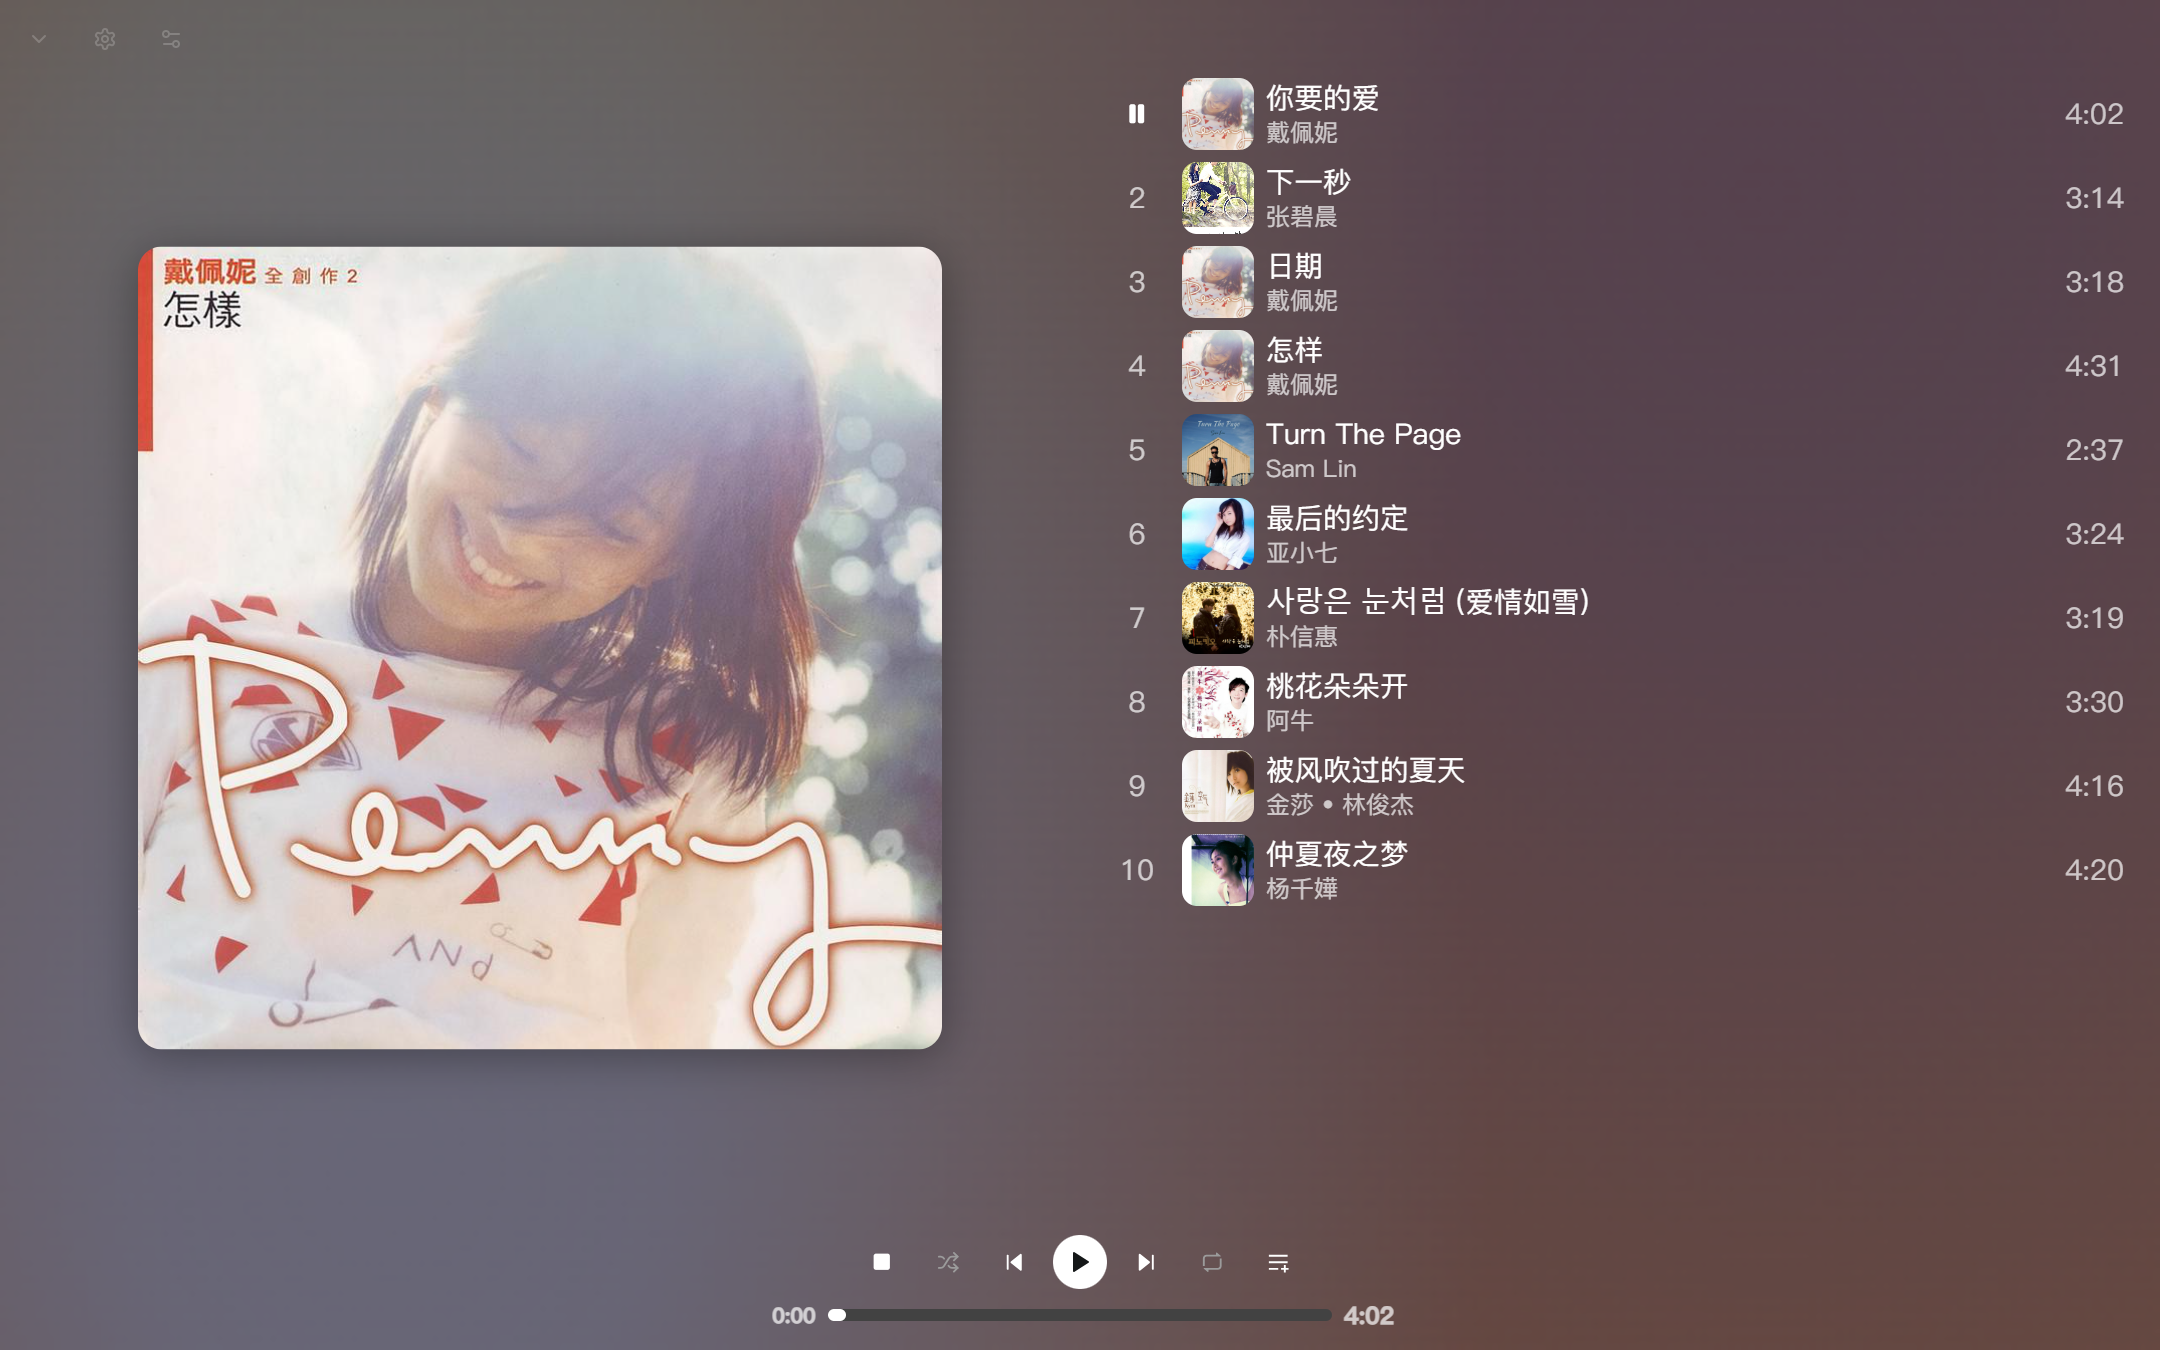
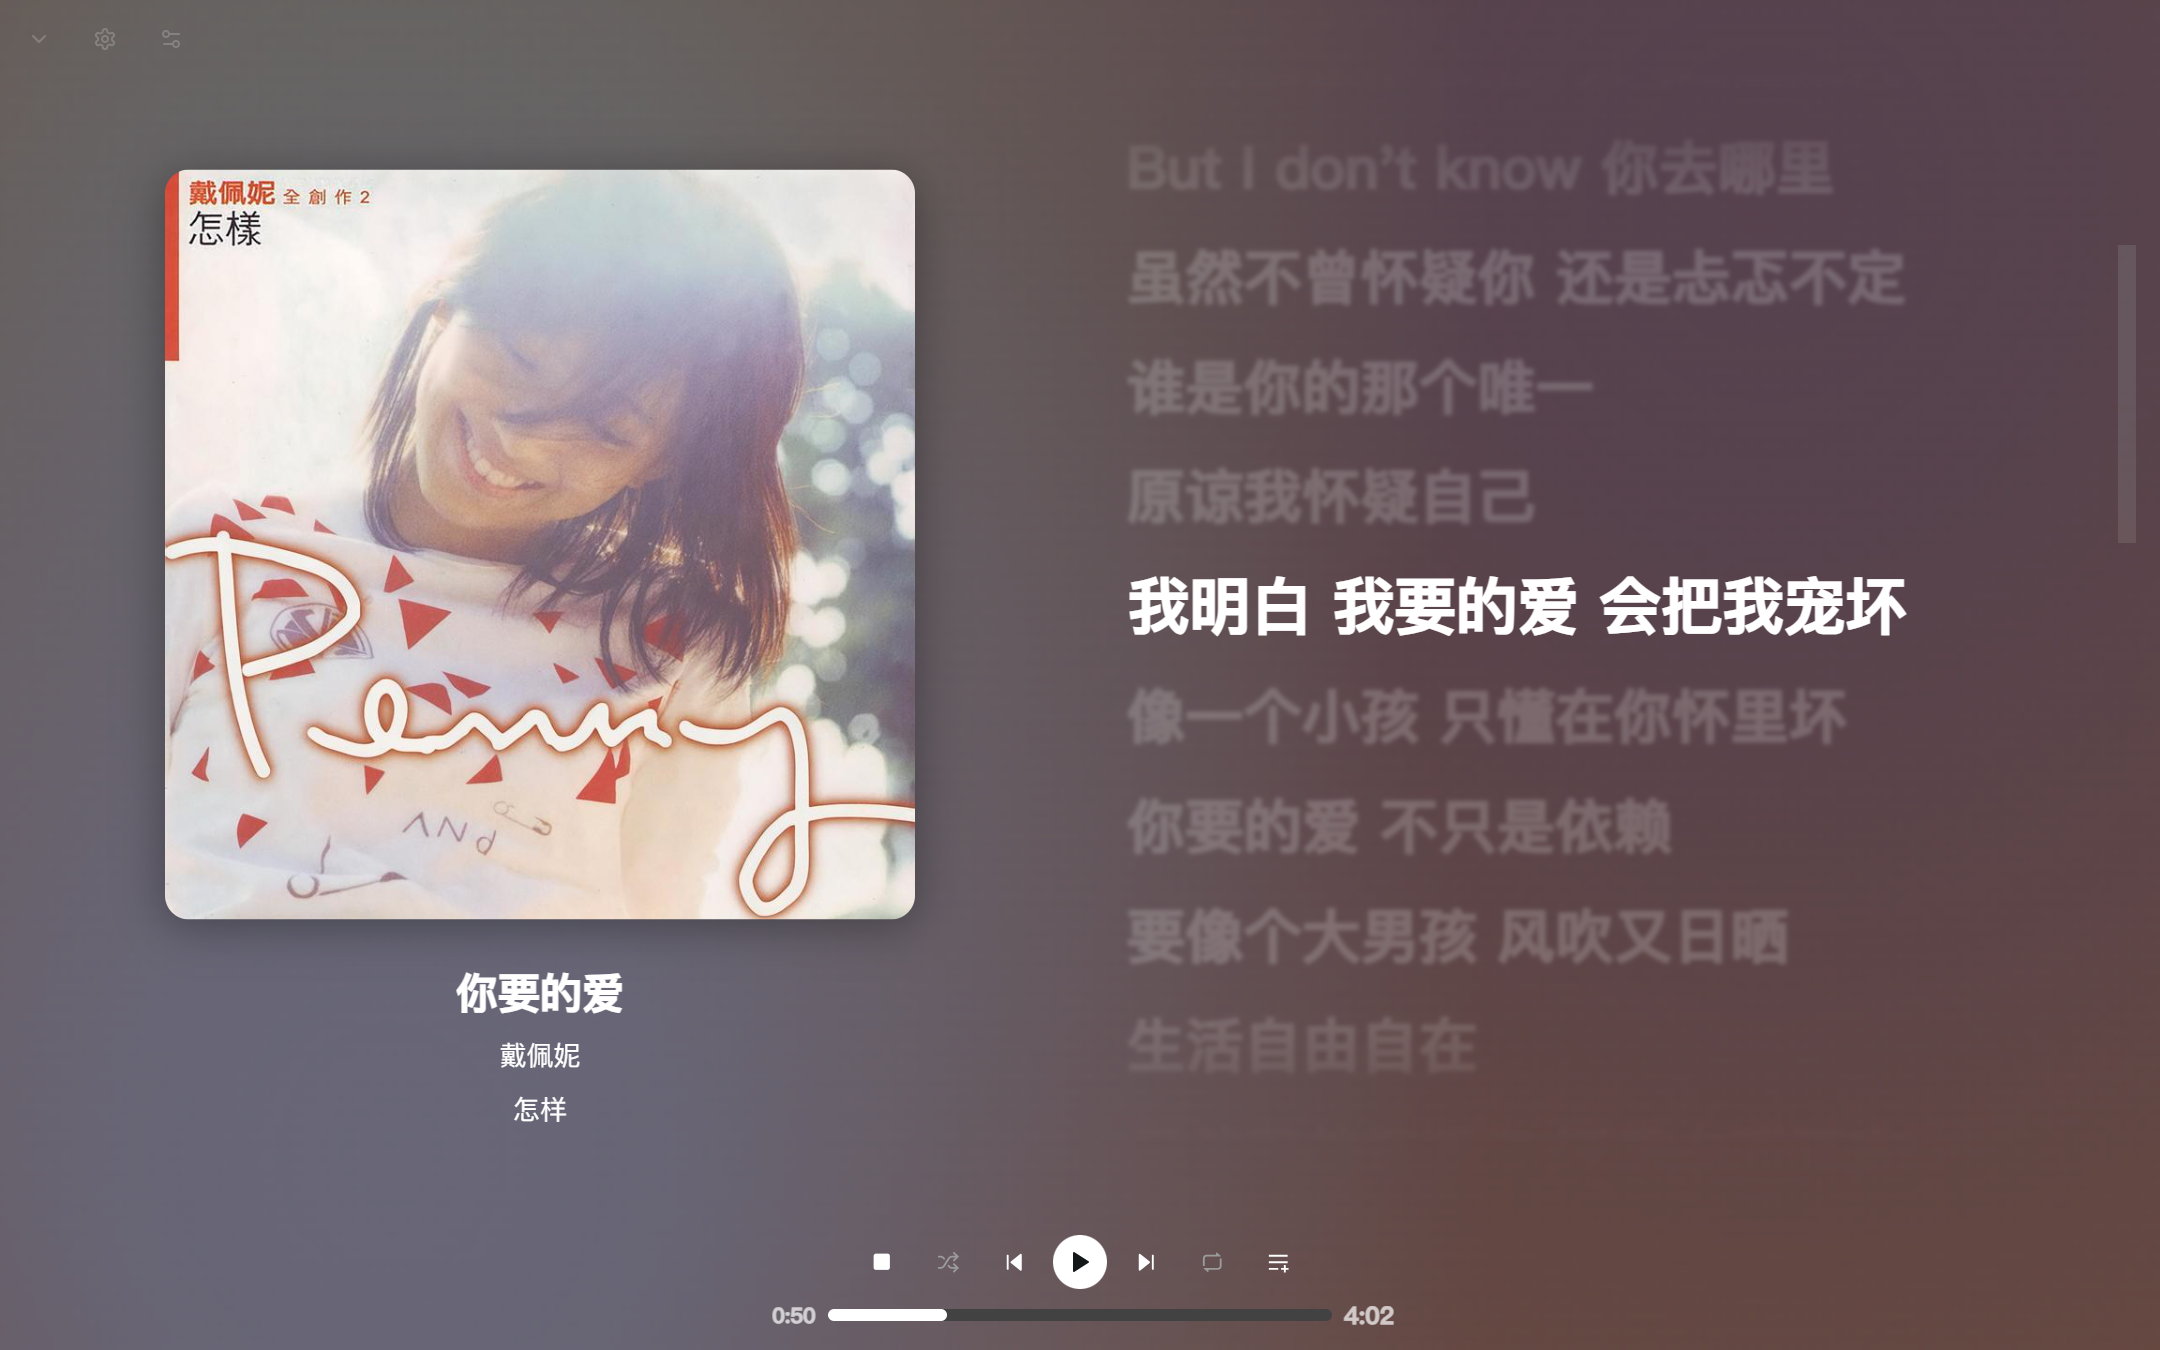
docs: refresh demo tracks and lyrics screenshot

diff --git a/web.vite.config.ts b/web.vite.config.ts
@@ -119,7 +119,7 @@ export default defineConfig({
                 screenshots: [
                     {
                         form_factor: 'wide',
-                        label: 'Full screen player showing album artwork and play queue',
+                        label: 'Full screen player showing album artwork and lyrics',
                         sizes: '720x450',
                         src: 'preview_full_screen_player.webp',
                         type: 'image/webp',

diff --git a/README.md b/README.md
@@ -56,9 +56,9 @@
 
 ### 全屏播放器
 
-以戴佩妮《你要的爱》为例，展示封面配色背景与播放队列。
+以戴佩妮《你要的爱》为例，展示封面配色背景与歌词。
 
-![全屏播放器：戴佩妮《你要的爱》与演示播放队列](media/screenshots/player.png)
+![全屏播放器：戴佩妮《你要的爱》与歌词](media/screenshots/player.png)
 
 ### 音乐库
 
